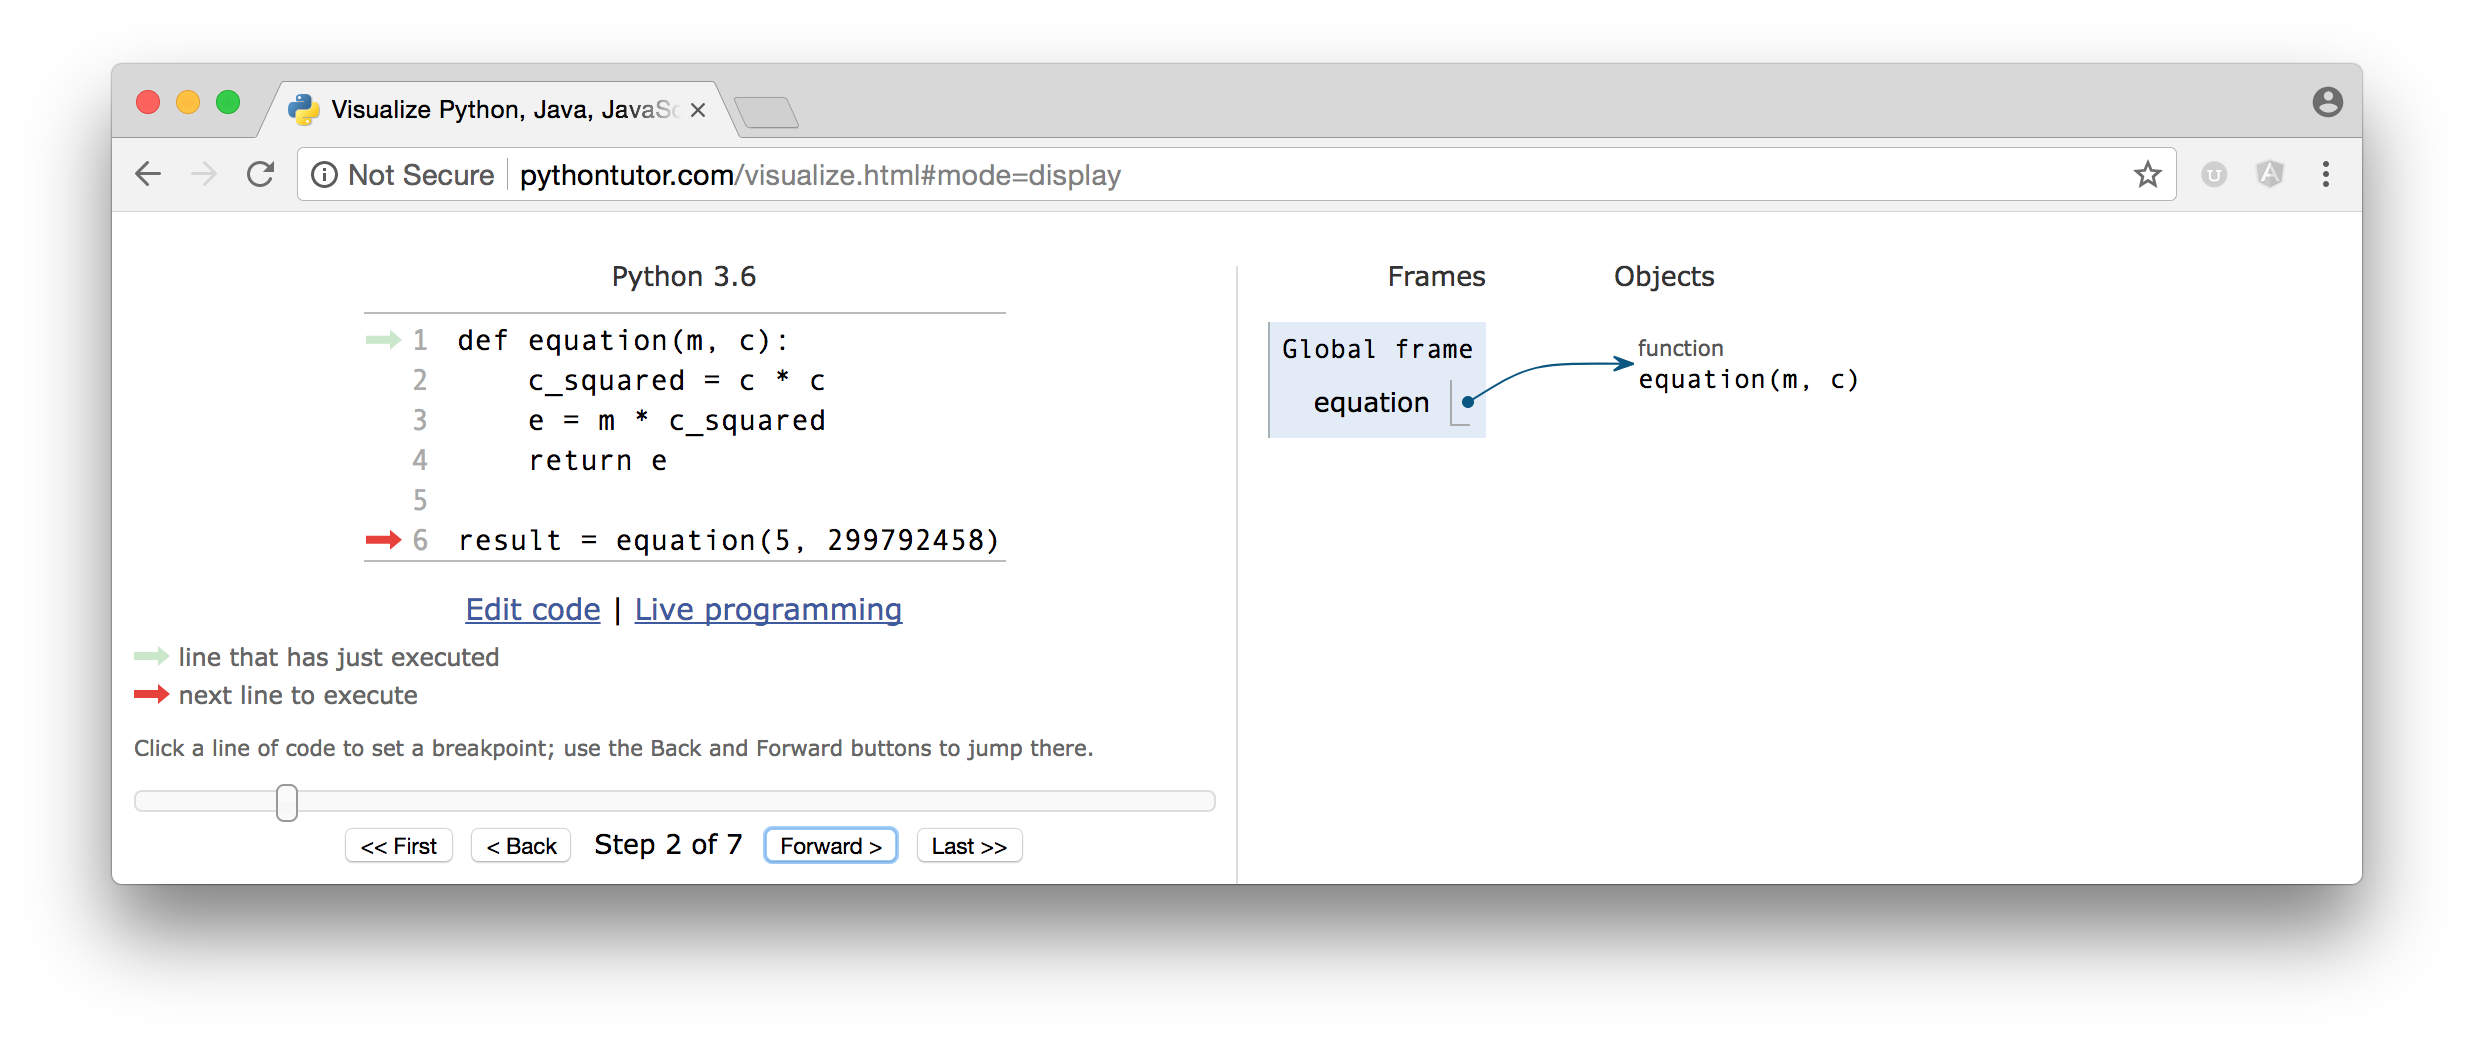
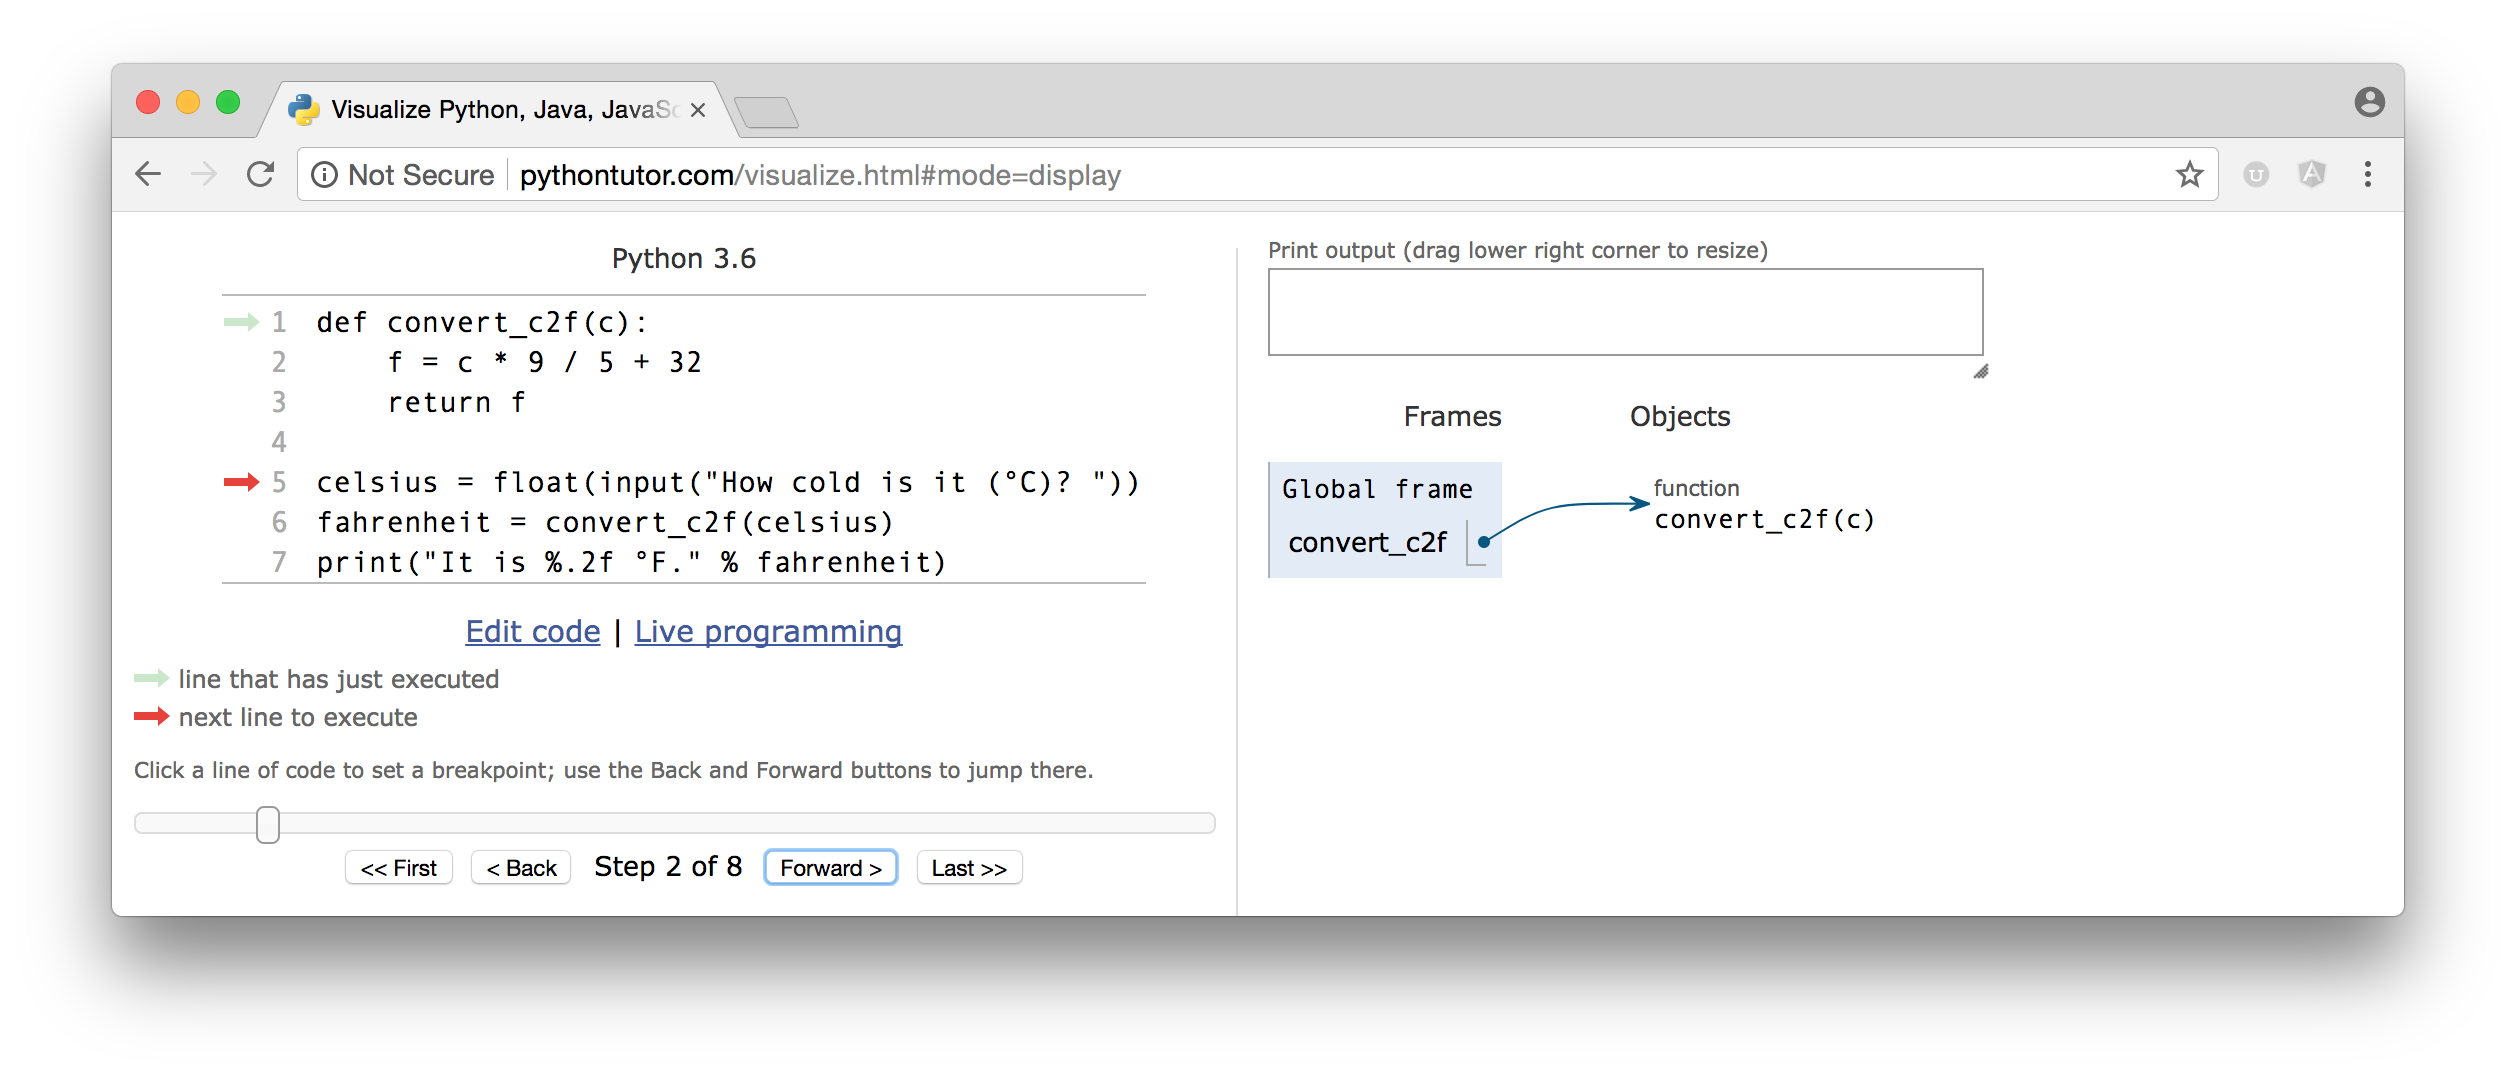
Re-did python tutor section.

diff --git a/lessons/python/lesson-9/presentation.md b/lessons/python/lesson-9/presentation.md
@@ -510,18 +510,19 @@ and you would get this error.
 ## The Frame
 
 ```python
-def equation(m, c):
-    c_squared = c * c
-    e = m * c_squared
-    return e
+def convert_c2f(c):
+    f = c * 9 / 5 + 32
+    return f
 
-result = equation(5, 299792458)
+celsius = float(input("How cold is it (°C)? "))
+fahrenheit = convert_c2f(celsius)
+print("It is %.2f °F." % fahrenheit)
 ```
 
 ---
-Let's look at another example now. This one has to do with a famous
-physics equation. This time, we want to focus on the *frame* of a
-function when it is executed in Python Tutor.
+Now, we are going to step through this program in Python Tutor.
+We are going to focus on the *frame* of a function when it is executed
+in Python Tutor.
 **********************************************
 ## Executing a Function
 
@@ -529,7 +530,9 @@ function when it is executed in Python Tutor.
 
 ---
 As we step through this code, watch closely to see what happens to the
-"Frames" section. So far, the only frame we have seen is the global frame,
+"Frames" section.
+
+So far, the only frame we have seen is the global frame,
 which stores the names and the values of our variables. When
 you call a function, a new frame gets created that will be used to store
 the variables that are local to (belongs to) that function.
@@ -541,10 +544,10 @@ the variables that are local to (belongs to) that function.
 ---
 Okay, let's get started!!
 
-As you can see, at the beginning of the program, there isn't anything there
-in the global frame.
+At the beginning of the program, there isn't anything there
+in the frames section.
 
-The first line of this program defines the equation function. Let's see
+The first line of this program defines a function. Let's see
 what happens when we step.
 **********************************************
 ## Executing a Function
@@ -552,86 +555,86 @@ what happens when we step.
 ![Step 2](./lessons/python/lesson-9/images/pt-step2.png)
 
 ---
-The moment you execute the `def` statement, the function is defined
+Once you execute the `def` statement, the function is defined
 in the global frame. As you can see, a function is stored in the same
-way as a variable is stored. The function has a name --- equation,
-this also happens to be its slot name in the global frame. The function
-itself is stored in the objects section, and is pointed to by the
-"equation" slot.
+way as a variable is stored.
 
-Now, we are on line 6, which will call the equation function that we've
-just defined. Let's see what happens.
+The function's name convert_c2f is the slot name in the global frame.
+The function itself is stored in the objects section, and is pointed
+to by the slot.
+
+Now, we are on line 5, which will prompt the user to enter a number.
 **********************************************
 ## Executing a Function
 
 ![Step 3](./lessons/python/lesson-9/images/pt-step3.png)
 
 ---
-A new frame called "equation" has been created in the frames section,
-and it already contains two variables: m and c, which correspond to the
-parameters. Their respective values were passed in from the argument list
-on line 6: 5 and 299792458.
+I entered 12 when I was prompted "How cold is it °C?", and so now the
+`celcius` variable has been created and contains the value 12.
+
+Next, we will actually call the `convert_c2f` function we've defined. Let's
+see what happens.
+**********************************************
+## Executing a Function
+
+![Step 3](./lessons/python/lesson-9/images/pt-step4.png)
+
+---
+When the function is called, a new frame called "convert_c2f" has been
+added to the frames section, and it already contains one variable:
+`c`, which contains the value 12.
+
+The value of 12 was passed in from the
+argument list in the function call on line 6: `convert_c2f(celsius)`
+, and `c` is the name of the parameter on the inside of the function.
+
+So the value of `celsius` on the outside of the function is passed to `c`
+on the inside of the function.
 
 And now the program counter is on line 1 --- the beginning of the
-equation function.
+`convert_c2f` function.
 
 Step...
 **********************************************
 ## Executing a Function
 
-![Step 4](./lessons/python/lesson-9/images/pt-step4.png)
+![Step 4](./lessons/python/lesson-9/images/pt-step5.png)
 
 ---
-This is the *real* first line of the function. It creates a new variable
-`c_squared` and assigns to it the result of multiplying c by itself.
+Now we are on line 2, the *real* first line of the function.
+It creates a new variable
+`f` and assigns to it the result of performing the calculations for the
+unit conversion equation.
 
 Step over that, and...
 **********************************************
 ## Executing a Function
 
-![Step 5](./lessons/python/lesson-9/images/pt-step5.png)
+![Step 5](./lessons/python/lesson-9/images/pt-step6.png)
 
 ---
-the `c_squared` variable has been created with the value of
-89875517873681760, as you can see in the "equation" frame.
+the `f` variable has been created with the value of
+53.6 --- the calculated result.
 **********************************************
 ## Executing a Function
 
-![Step 5](./lessons/python/lesson-9/images/pt-step5.png)
+![Step 5](./lessons/python/lesson-9/images/pt-step6.png)
 
 ---
 
-The next line: line 3 creates a new variable e and assigns to it the
-result of multiplying `m` with `c_squared`.
-
-Step over this line, and...
-**********************************************
-## Executing a Function
-
-![Step 6](./lessons/python/lesson-9/images/pt-step6.png)
-
----
-there is e in the "equation" frame. Its value turns out to be
-449377589368408800 --- based on the calculation.
-**********************************************
-## Executing a Function
-
-![Step 6](./lessons/python/lesson-9/images/pt-step6.png)
-
----
-Finally, we have the return statement in this function, which supplies
-an output value back to the caller of this function...
+Next, we will return the value of `f` as the return value of this function.
 **********************************************
 ## Executing a Function
 
 ![Step 7](./lessons/python/lesson-9/images/pt-step7.png)
 
 ---
-Python Tutor shows us that the return value of this function is
-449377589368408800 --- which was gotten from the current value of e.
+When the return statement is executed, Python Tutor shows us that the
+return value of this function (in red), which in this case is 53.6.
 
-Now, when we step again, what do you think happens to the equation frame?
-Make your prediction, and then go to the next slide.
+When we step again, what do you think happens to the convert_c2f frame?
+Make your prediction, and then go to the next slide to find out.
 **********************************************
 ## Executing a Function
 
@@ -645,12 +648,17 @@ executing, the frame that was created to store its variables disappears,
 because they are no longer needed. A frame is like scratch paper for you
 to work out the solution of a math problem, but once you have the answer,
 you don't need it anymore.
+
+Due to line 6, we have save the return value of the function call into
+a new `fahrenheit` variable. And so now we are ready to print it out.
 **********************************************
 ## Executing a Function
 
-![Step 8](./lessons/python/lesson-9/images/pt-step8.png)
+![Step 8](./lessons/python/lesson-9/images/pt-end.png)
 
 ---
+There is the print out that says "It is 53.60 °F".
+
 Now that you know calling a function works. Let's see one more
 complex example of function usage.
 **********************************************
